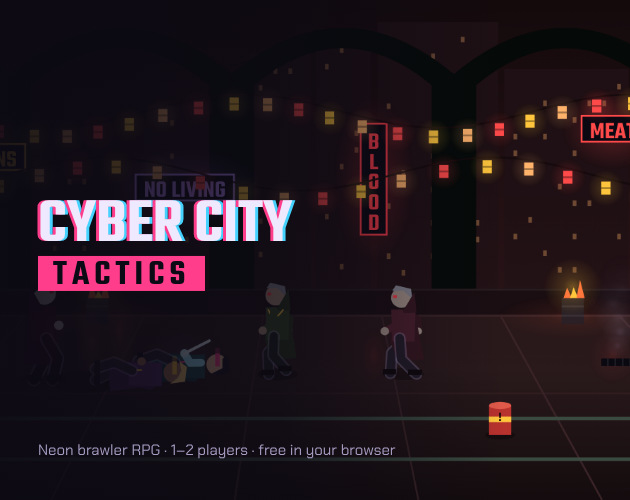
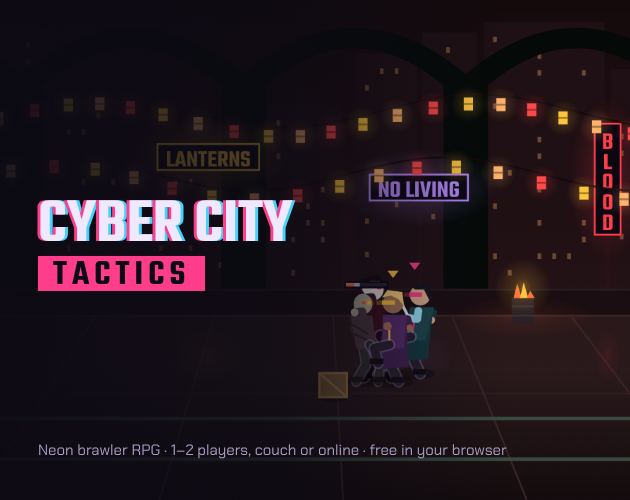
README with trailer preview, screenshots and online co-op guide; richer link previews
The README opens with the key art, play and trailer buttons, a looping
trailer preview, a screenshot gallery (store shots plus the Den, skill
trees, Codex and phones) and a step-by-step online co-op section.
capture.mjs gains --only= and a readme step for docs/media. The social card
and cover now say couch or online and keep the runners on their feet.
index.html gets a fuller Open Graph and Twitter card set with a cache-busted
image, og:video and a canonical link.

Claude-Session: https://claude.ai/code/session_01Y48r5UoeMN5qUBJCKsM3hL

diff --git a/dist/cyber-city-tactics.html b/dist/cyber-city-tactics.html
@@ -6,13 +6,26 @@
 <title>Cyber City Tactics</title>
 <meta name="description" content="A vector brawler RPG for one or two players: a six-district campaign, an open-world Sprawl, Arena waves, skill trees, legendaries and secrets. Plays offline.">
 <meta property="og:title" content="Cyber City Tactics">
-<meta property="og:description" content="A neon brawler RPG for one or two players. Six districts, an open-world Sprawl, and every job a choice. Free in your browser; plays offline.">
+<meta property="og:description" content="A neon brawler RPG for one or two players, couch or online. Six districts, an open-world Sprawl, and every job a choice. Free in your browser; plays offline.">
 <meta property="og:type" content="website">
 <meta property="og:url" content="https://cptnope.github.io/Cyber-City-Tactics/">
-<meta property="og:image" content="https://cptnope.github.io/Cyber-City-Tactics/docs/store/social-1200x630.png">
+<meta property="og:site_name" content="Cyber City Tactics">
+<meta property="og:image" content="https://cptnope.github.io/Cyber-City-Tactics/docs/store/social-1200x630.png?v=2">
+<meta property="og:image:secure_url" content="https://cptnope.github.io/Cyber-City-Tactics/docs/store/social-1200x630.png?v=2">
+<meta property="og:image:type" content="image/png">
 <meta property="og:image:width" content="1200">
 <meta property="og:image:height" content="630">
+<meta property="og:image:alt" content="Cyber City Tactics: two runners brawling through a neon night market">
+<meta property="og:video" content="https://cptnope.github.io/Cyber-City-Tactics/docs/store/trailer.mp4">
+<meta property="og:video:type" content="video/mp4">
+<meta property="og:video:width" content="1280">
+<meta property="og:video:height" content="720">
 <meta name="twitter:card" content="summary_large_image">
+<meta name="twitter:title" content="Cyber City Tactics">
+<meta name="twitter:description" content="A neon brawler RPG for one or two players, couch or online. Free in your browser; plays offline.">
+<meta name="twitter:image" content="https://cptnope.github.io/Cyber-City-Tactics/docs/store/social-1200x630.png?v=2">
+<meta name="twitter:image:alt" content="Cyber City Tactics: two runners brawling through a neon night market">
+<link rel="canonical" href="https://cptnope.github.io/Cyber-City-Tactics/">
 <meta name="theme-color" content="#0c0a14">
 <meta name="color-scheme" content="dark">
 <meta name="claude:viewport-fit-sides" content="cover">
@@ -1118,7 +1131,7 @@ const BUNDLED = true;
 /* ===== src/js/version.js ===== */
 /* Cyber City Tactics · src/js/version.js
  * Written by tools/build.mjs. Do not edit by hand. */
-const APP_VERSION = '2.0.0+5a3b52d';
+const APP_VERSION = '2.0.0+31e193f';
 
 /* ===== src/js/core/canvas.js ===== */
 /* Cyber City Tactics · src/js/core/canvas.js
@@ -11693,11 +11706,11 @@ function netHtml(m) {
     <textarea class="netcode" data-net="draft" rows="3" placeholder="Paste the reply code here" aria-label="Reply code">${esc(NET.draft)}</textarea>
     <div class="row"><button class="btn" data-a="netconnect"${busy ? ' disabled' : ''}>${st === 'connecting' ? 'Connecting…' : 'Connect'}</button></div>`;
   if (!NET.role || st === 'error' || st === '') {
-    body = `<p>Play the Arena with a friend in another browser, on another device, anywhere. One of you hosts; the other joins${lob ? ' with a five-letter room code' : ' by swapping two codes over chat or text'}. No accounts.</p>
+    body = `<p>Play with a friend in another browser, on another device, anywhere: the Arena, the campaign or the Sprawl. One of you hosts; the other joins${lob ? ' with a five-letter room code' : ' by swapping two codes over chat or text'}. No accounts.</p>
     ${err}
     ${archHtml(1)}
     <div class="row"><button class="btn" data-a="nethost">Host a game</button><button class="btn ghost" data-a="netjoin">Join a game</button><button class="btn ghost" data-a="netback">Back</button></div>
-    <p style="color:var(--muted);font-size:12.5px">The host plays as Runner 1 and picks perks; the friend plays as Runner 2 with the archetype and coat chosen above. ${lob ? 'The two browsers connect directly; when a network blocks that, the game is relayed through Cloudflare.' : 'Works best on the same Wi-Fi; across the internet it works on most home networks, but some office and school networks block direct connections.'}</p>`;
+    <p style="color:var(--muted);font-size:12.5px">The host plays as Runner 1 and runs the menus; the friend plays as Runner 2 with the archetype and coat chosen above. ${lob ? 'The two browsers connect directly; when a network blocks that, the game is relayed through Cloudflare.' : 'Works best on the same Wi-Fi; across the internet it works on most home networks, but some office and school networks block direct connections.'}</p>`;
   } else if (NET.role === 'host') {
     const link = netInviteLink();
     if (st === 'making') body = '<p>Opening a room…</p>';
@@ -11728,7 +11741,7 @@ function netHtml(m) {
     <textarea class="netcode${lob ? ' short' : ''}" data-net="draft" rows="${lob ? 1 : 3}" placeholder="${lob ? 'K7Q2X' : 'Paste the invite code here'}" aria-label="${lob ? 'Room code or invite code' : 'Invite code'}" autocapitalize="characters" spellcheck="false">${esc(NET.draft)}</textarea>
     <div class="row"><button class="btn" data-a="netanswer">${lob ? 'Join' : 'Make my reply code'}</button><button class="btn ghost" data-a="netcancel">Cancel</button></div>`;
   }
-  return `<div class="card"><p class="eyebrow">Online co-op · Arena</p><h2>${NET.role === 'host' ? 'Host a game' : NET.role === 'guest' ? 'Join a game' : 'Play online'}</h2>${body}</div>`;
+  return `<div class="card"><p class="eyebrow">Online co-op</p><h2>${NET.role === 'host' ? 'Host a game' : NET.role === 'guest' ? 'Join a game' : 'Play online'}</h2>${body}</div>`;
 }
 function netCopy(text, btn) {
   const done = () => {

diff --git a/src/js/modes/net.js b/src/js/modes/net.js
@@ -919,11 +919,11 @@ function netHtml(m) {
     <textarea class="netcode" data-net="draft" rows="3" placeholder="Paste the reply code here" aria-label="Reply code">${esc(NET.draft)}</textarea>
     <div class="row"><button class="btn" data-a="netconnect"${busy ? ' disabled' : ''}>${st === 'connecting' ? 'Connecting…' : 'Connect'}</button></div>`;
   if (!NET.role || st === 'error' || st === '') {
-    body = `<p>Play the Arena with a friend in another browser, on another device, anywhere. One of you hosts; the other joins${lob ? ' with a five-letter room code' : ' by swapping two codes over chat or text'}. No accounts.</p>
+    body = `<p>Play with a friend in another browser, on another device, anywhere: the Arena, the campaign or the Sprawl. One of you hosts; the other joins${lob ? ' with a five-letter room code' : ' by swapping two codes over chat or text'}. No accounts.</p>
     ${err}
     ${archHtml(1)}
     <div class="row"><button class="btn" data-a="nethost">Host a game</button><button class="btn ghost" data-a="netjoin">Join a game</button><button class="btn ghost" data-a="netback">Back</button></div>
-    <p style="color:var(--muted);font-size:12.5px">The host plays as Runner 1 and picks perks; the friend plays as Runner 2 with the archetype and coat chosen above. ${lob ? 'The two browsers connect directly; when a network blocks that, the game is relayed through Cloudflare.' : 'Works best on the same Wi-Fi; across the internet it works on most home networks, but some office and school networks block direct connections.'}</p>`;
+    <p style="color:var(--muted);font-size:12.5px">The host plays as Runner 1 and runs the menus; the friend plays as Runner 2 with the archetype and coat chosen above. ${lob ? 'The two browsers connect directly; when a network blocks that, the game is relayed through Cloudflare.' : 'Works best on the same Wi-Fi; across the internet it works on most home networks, but some office and school networks block direct connections.'}</p>`;
   } else if (NET.role === 'host') {
     const link = netInviteLink();
     if (st === 'making') body = '<p>Opening a room…</p>';
@@ -954,7 +954,7 @@ function netHtml(m) {
     <textarea class="netcode${lob ? ' short' : ''}" data-net="draft" rows="${lob ? 1 : 3}" placeholder="${lob ? 'K7Q2X' : 'Paste the invite code here'}" aria-label="${lob ? 'Room code or invite code' : 'Invite code'}" autocapitalize="characters" spellcheck="false">${esc(NET.draft)}</textarea>
     <div class="row"><button class="btn" data-a="netanswer">${lob ? 'Join' : 'Make my reply code'}</button><button class="btn ghost" data-a="netcancel">Cancel</button></div>`;
   }
-  return `<div class="card"><p class="eyebrow">Online co-op · Arena</p><h2>${NET.role === 'host' ? 'Host a game' : NET.role === 'guest' ? 'Join a game' : 'Play online'}</h2>${body}</div>`;
+  return `<div class="card"><p class="eyebrow">Online co-op</p><h2>${NET.role === 'host' ? 'Host a game' : NET.role === 'guest' ? 'Join a game' : 'Play online'}</h2>${body}</div>`;
 }
 function netCopy(text, btn) {
   const done = () => {

diff --git a/index.html b/index.html
@@ -6,13 +6,26 @@
 <title>Cyber City Tactics</title>
 <meta name="description" content="A vector brawler RPG for one or two players: a six-district campaign, an open-world Sprawl, Arena waves, skill trees, legendaries and secrets. Plays offline.">
 <meta property="og:title" content="Cyber City Tactics">
-<meta property="og:description" content="A neon brawler RPG for one or two players. Six districts, an open-world Sprawl, and every job a choice. Free in your browser; plays offline.">
+<meta property="og:description" content="A neon brawler RPG for one or two players, couch or online. Six districts, an open-world Sprawl, and every job a choice. Free in your browser; plays offline.">
 <meta property="og:type" content="website">
 <meta property="og:url" content="https://cptnope.github.io/Cyber-City-Tactics/">
-<meta property="og:image" content="https://cptnope.github.io/Cyber-City-Tactics/docs/store/social-1200x630.png">
+<meta property="og:site_name" content="Cyber City Tactics">
+<meta property="og:image" content="https://cptnope.github.io/Cyber-City-Tactics/docs/store/social-1200x630.png?v=2">
+<meta property="og:image:secure_url" content="https://cptnope.github.io/Cyber-City-Tactics/docs/store/social-1200x630.png?v=2">
+<meta property="og:image:type" content="image/png">
 <meta property="og:image:width" content="1200">
 <meta property="og:image:height" content="630">
+<meta property="og:image:alt" content="Cyber City Tactics: two runners brawling through a neon night market">
+<meta property="og:video" content="https://cptnope.github.io/Cyber-City-Tactics/docs/store/trailer.mp4">
+<meta property="og:video:type" content="video/mp4">
+<meta property="og:video:width" content="1280">
+<meta property="og:video:height" content="720">
 <meta name="twitter:card" content="summary_large_image">
+<meta name="twitter:title" content="Cyber City Tactics">
+<meta name="twitter:description" content="A neon brawler RPG for one or two players, couch or online. Free in your browser; plays offline.">
+<meta name="twitter:image" content="https://cptnope.github.io/Cyber-City-Tactics/docs/store/social-1200x630.png?v=2">
+<meta name="twitter:image:alt" content="Cyber City Tactics: two runners brawling through a neon night market">
+<link rel="canonical" href="https://cptnope.github.io/Cyber-City-Tactics/">
 <meta name="theme-color" content="#0c0a14">
 <meta name="color-scheme" content="dark">
 <meta name="claude:viewport-fit-sides" content="cover">

diff --git a/src/js/version.js b/src/js/version.js
@@ -1,4 +1,4 @@
 /* Cyber City Tactics · src/js/version.js
  * Written by tools/build.mjs. Do not edit by hand. */
 'use strict';
-const APP_VERSION = '2.0.0+5a3b52d';
+const APP_VERSION = '2.0.0+31e193f';

diff --git a/sw.js b/sw.js
@@ -10,7 +10,7 @@
  */
 
 /* BUILD:MANIFEST */
-const VERSION = '5a3b52de675f';
+const VERSION = '31e193f2a1d7';
 const PRECACHE = [
   './',
   'index.html',

diff --git a/README.md b/README.md
@@ -1,18 +1,74 @@
+<p align="center">
+  <a href="https://cptnope.github.io/Cyber-City-Tactics/"><img src="docs/store/social-1200x630.png" alt="Cyber City Tactics: a neon brawler RPG for one or two players" width="100%"></a>
+</p>
+
+<h3 align="center">A neon brawler RPG for one or two players, on one keyboard or online.<br>Free in your browser. No install, no account, and it plays offline.</h3>
+
+<p align="center">
+  <a href="https://cptnope.github.io/Cyber-City-Tactics/"><img alt="Play now in your browser" src="https://img.shields.io/badge/%E2%96%B6%20PLAY%20NOW-in%20your%20browser-ff3d8b?style=for-the-badge&labelColor=0c0a14"></a>
+  <a href="https://cptnope.github.io/Cyber-City-Tactics/docs/store/trailer.mp4"><img alt="Watch the trailer" src="https://img.shields.io/badge/%E2%96%B6%20TRAILER-22%20seconds-45d2ff?style=for-the-badge&labelColor=0c0a14"></a>
+</p>
+<p align="center">
+  <a href="https://github.com/CptNope/Cyber-City-Tactics/actions/workflows/ci.yml"><img alt="CI" src="https://github.com/CptNope/Cyber-City-Tactics/actions/workflows/ci.yml/badge.svg"></a>
+  <img alt="No dependencies" src="https://img.shields.io/badge/dependencies-none-7dffb0?labelColor=0c0a14">
+  <img alt="Installable PWA, works offline" src="https://img.shields.io/badge/PWA-installable%20%C2%B7%20offline-b98cff?labelColor=0c0a14">
+  <img alt="Online co-op" src="https://img.shields.io/badge/co--op-couch%20%C2%B7%20online-ffc63d?labelColor=0c0a14">
+</p>
+
 # Cyber City Tactics
 
-**Cyber City Tactics** is a vector-drawn, River City Ransom–style brawler RPG for one or two players. It's set in a cyberpunk sprawl where magic is real: street samurai, combat mages, gunslingers, deckers, shamans and riggers fighting gangs, corps, spirits and ICE.
+Seattle, 2079. Magic came back, dragons came with it, and the corps bought the sky.
 
-It's plain JavaScript with no framework and no runtime dependencies, split into small files by system. It runs in any modern browser and installs as an app (PWA) that plays fully offline.
+**Cyber City Tactics** is a vector-drawn, River City Ransom–style brawler RPG set in a cyberpunk sprawl where magic is real. Street samurai, combat mages, gunslingers, deckers, shamans and riggers fight gangs, corps, spirits and ICE across six districts, an open-world street and an endless Arena. You and a friend punch, kick, shoot, cast, grab and throw your way from the gang turf under the dead monorail to the Kagemori host itself.
+
+It's plain JavaScript with no framework and no runtime dependencies, split into small files by system. It runs in any modern browser on phones, tablets, laptops and TVs, and it installs as an app (PWA) that plays fully offline.
 
 - **Play it:** https://cptnope.github.io/Cyber-City-Tactics/
-- **What's next:** see [ROADMAP.md](ROADMAP.md)
+- **What's next:** [ROADMAP.md](ROADMAP.md)
+- **Store kit** (trailer, screenshots, cover art, itch.io copy): [`docs/store/`](docs/store/README.md)
 - **Brand and design:** the [Brand Book](https://claude.ai/artifact/SJeAWr27Fua7MpdYEhZqS7) (story, voice, logo, color, type) and the [Design System](https://claude.ai/artifact/7MgLArML6pr2ZNGthKNg7Q) (tokens, components, icons), plus the [Design Panels](https://claude.ai/artifact/QRGJ2rzUJLrJbqcxjpcKoc) (key art, store and social art, annotated screens). Copies of all three live in [`docs/design/`](docs/design/); the live values are in `src/css/game.css`.
 
 ---
 
+## Trailer
+
+<p align="center">
+  <a href="https://cptnope.github.io/Cyber-City-Tactics/docs/store/trailer.mp4"><img src="docs/media/trailer-preview.gif" alt="Trailer preview: two runners fighting through the districts" width="100%"></a>
+  <br><sub>A few seconds of the trailer. Click it for the full 22-second video.</sub>
+</p>
+
+## At a glance
+
+- **Six districts, six bosses**, from the Gutter King under the dead monorail to Mother Vesper's ghoul night market and the Black ICE inside the corp's network.
+- **Two choices that change the ending.** Sell the books or leak them. Wipe the core or keep the key.
+- **The Sprawl:** an open-world street of doors to crack. Corps and gangs are fair game; families and corner shops aren't, and the city remembers. Cops, heat, street cred, a black-market trader and a 60-slot stash.
+- **A real RPG under it:** karma levels, four skill trees, cyberware, spells, 70+ feats, legendaries and a Codex of lore to piece together.
+- **Co-op your way:** one keyboard, two controllers, a phone and a gamepad, or **online** with a five-letter room code.
+- **Arena** with daily and weekly seeded challenges, and **Training** with Juno for anyone new.
+
+## Screenshots
+
+| | |
+|---|---|
+| ![Two runners brawling through a storm on Rustline](docs/store/shot-street-storm.png)<br><sub>**Rustline Barrens.** Rain, burning barrels and the Gutter King's crew.</sub> | ![Razor Mei's boss entrance in the Neon Market](docs/store/shot-neon-market-boss.png)<br><sub>**Boss entrances.** Razor Mei makes hers in the Neon Market.</sub> |
+| ![Mother Vesper's night market under the city](docs/store/shot-undercity-market.png)<br><sub>**The Undercity Market.** Mother Vesper sells what Kagemori throws away.</sub> | ![Armored and warded elites with a mech walker in the Arcology](docs/store/shot-arcology-elites.png)<br><sub>**Elites.** Armored, berserk and warded foes, each with a tell.</sub> |
+| ![Sable's black-market cart on a Sprawl block](docs/store/shot-sprawl-black-market.png)<br><sub>**The Sprawl.** Pick a door, or haggle with Sable at her cart.</sub> | ![The Den, the street hub between districts](docs/media/den.png)<br><sub>**The Den.** Fixers, docs, talismongers and a fence between jobs.</sub> |
+| ![The Mage skill tree on the character sheet](docs/media/skills.png)<br><sub>**Four skill trees** to mix freely, plus attributes, gear and cyberware.</sub> | ![The Codex of feats, legendaries, enemies and lore](docs/media/codex.png)<br><sub>**The Codex** keeps your legend across every run.</sub> |
+
+<p align="center">
+  <img src="screenshots/narrow-play.png" alt="Playing on a phone in portrait, with touch controls" width="30%">
+  &nbsp;
+  <img src="screenshots/narrow-codex.png" alt="The Codex on a phone" width="30%">
+  <br><sub>It plays on phones too, with touch controls that relabel themselves for what you can do.</sub>
+</p>
+
+---
+
 ## Contents
+- [Trailer](#trailer) · [At a glance](#at-a-glance) · [Screenshots](#screenshots)
 - [Quick start](#quick-start)
 - [Game modes](#game-modes)
+- [Online co-op](#online-co-op)
 - [Your runner](#your-runner)
 - [Skill trees](#skill-trees)
 - [Gear](#gear)
@@ -118,11 +174,30 @@ A second runner joins with their own archetype, level, stats, skills and gear. C
 - add Runner 2 from the pause menu, or
 - press Start on a second gamepad.
 
-**Online co-op.** Play with a friend in another browser, on another device, anywhere: **Online co-op** on the title screen. One of you hosts and gets a five-letter room code (or an invite link); the other picks **Join a game** and types it in. Once you're connected, the host picks what to play: the Arena and its daily and weekly challenges, a new or continued campaign, or the Sprawl. The friend joins it as Runner 2 with the archetype and coat they chose. The host runs the menus, shops and briefings while the friend sees what's going on, and the friend can open their own character sheet (C) to spend points and change gear. No accounts. The two browsers talk directly; when a network blocks that, Cloudflare relays the game. If the lobby is ever unreachable, the game falls back to swapping two long codes by hand. The lobby is a small Cloudflare Worker in [`server/`](server/README.md).
+Want to play from two different places? See [Online co-op](#online-co-op).
 
 **Team attacks.** When both runners land a hit on the same enemy within half a second, it triggers a combined finisher: a big knockdown hit with a moment of slow motion. Each enemy can take one every two seconds.
 
 **Revive.** When a runner loses their last life, they leave a green marker where they fell. Their partner stands next to it for about two and a half seconds, without getting knocked around, to bring them back with 40% health and no spare lives. The marker goes away when you leave the scene, and then they're back next district as before.
+
+---
+
+## Online co-op
+
+Play with a friend in another browser, on another device, anywhere. No accounts and nothing to install.
+
+| Host | Friend |
+|---|---|
+| ![The host's room code card](docs/media/online-room.png) | ![The friend typing the room code](docs/media/online-join.png) |
+| 1. **Online co-op › Host a game.** You get a five-letter room code, and a **Copy invite link** button. | 2. **Online co-op › Join a game**, type the code (or just open the invite link), and press **Join**. |
+
+3. You're connected. The host picks what to play: the **Arena** (and its daily and weekly challenges), a **new or continued campaign**, or **the Sprawl**. Whatever the host starts, the friend joins it as Runner 2 with the archetype and coat they picked.
+4. The host runs the briefings, shops and Den menus, and the friend sees what's going on ("your partner is shopping…"). The friend opens their own **character sheet (C)** any time to spend attribute and skill points, change spells and swap gear.
+5. Quitting a run takes the host back to the online menu, so you can switch modes without reconnecting. **End online game** when you're done.
+
+**How it connects.** The two browsers talk directly (WebRTC). A small Cloudflare Worker in [`server/`](server/README.md) only swaps the connection details behind the room code and, on networks that block direct connections (many offices and schools), hands out passes for Cloudflare's relay. The game itself never goes through a server of ours. If the lobby is ever unreachable, the game falls back to swapping two long codes by hand.
+
+**Good to know.** Training stays solo. If the connection drops, start a new online game; if the friend leaves mid-campaign, the host carries on solo. The host's game is the real one: saves, unlocks and high scores land on the host's device.
 
 ---
 

diff --git a/docs/store/README.md b/docs/store/README.md
@@ -16,7 +16,7 @@ Everything needed for an itch.io page (or any store listing), captured from the 
 | `shot-sprawl-black-market.png` | 1920×1080 | Sable's cart on a Sprawl block |
 | `shot-title.png` | 1920×1080 | Title screen |
 
-The install-dialog screenshots listed in `manifest.webmanifest` live in `/screenshots` and come from the same script.
+The install-dialog screenshots listed in `manifest.webmanifest` live in `/screenshots`, and the README's pictures and trailer preview GIF live in `/docs/media`. All of them come from the same script.
 
 ## Regenerate
 
@@ -24,7 +24,7 @@ The install-dialog screenshots listed in `manifest.webmanifest` live in `/screen
 NODE_PATH=<a folder with playwright installed> node tools/capture.mjs
 ```
 
-`--no-video` skips the trailer; `--video-only` makes just the trailer. The trailer needs `ffmpeg` on your PATH. The game runs frame by frame under the script, with a small autopilot driving both runners, so each run comes out nearly the same.
+`--no-video` skips the trailer; `--video-only` makes just the trailer; `--only=stills,cards,readme,video` picks any mix (`readme` cuts the preview GIF from the existing trailer). The trailer needs `ffmpeg` on your PATH. The game runs frame by frame under the script, with a small autopilot driving both runners, so each run comes out nearly the same.
 
 ## itch.io page copy
 
